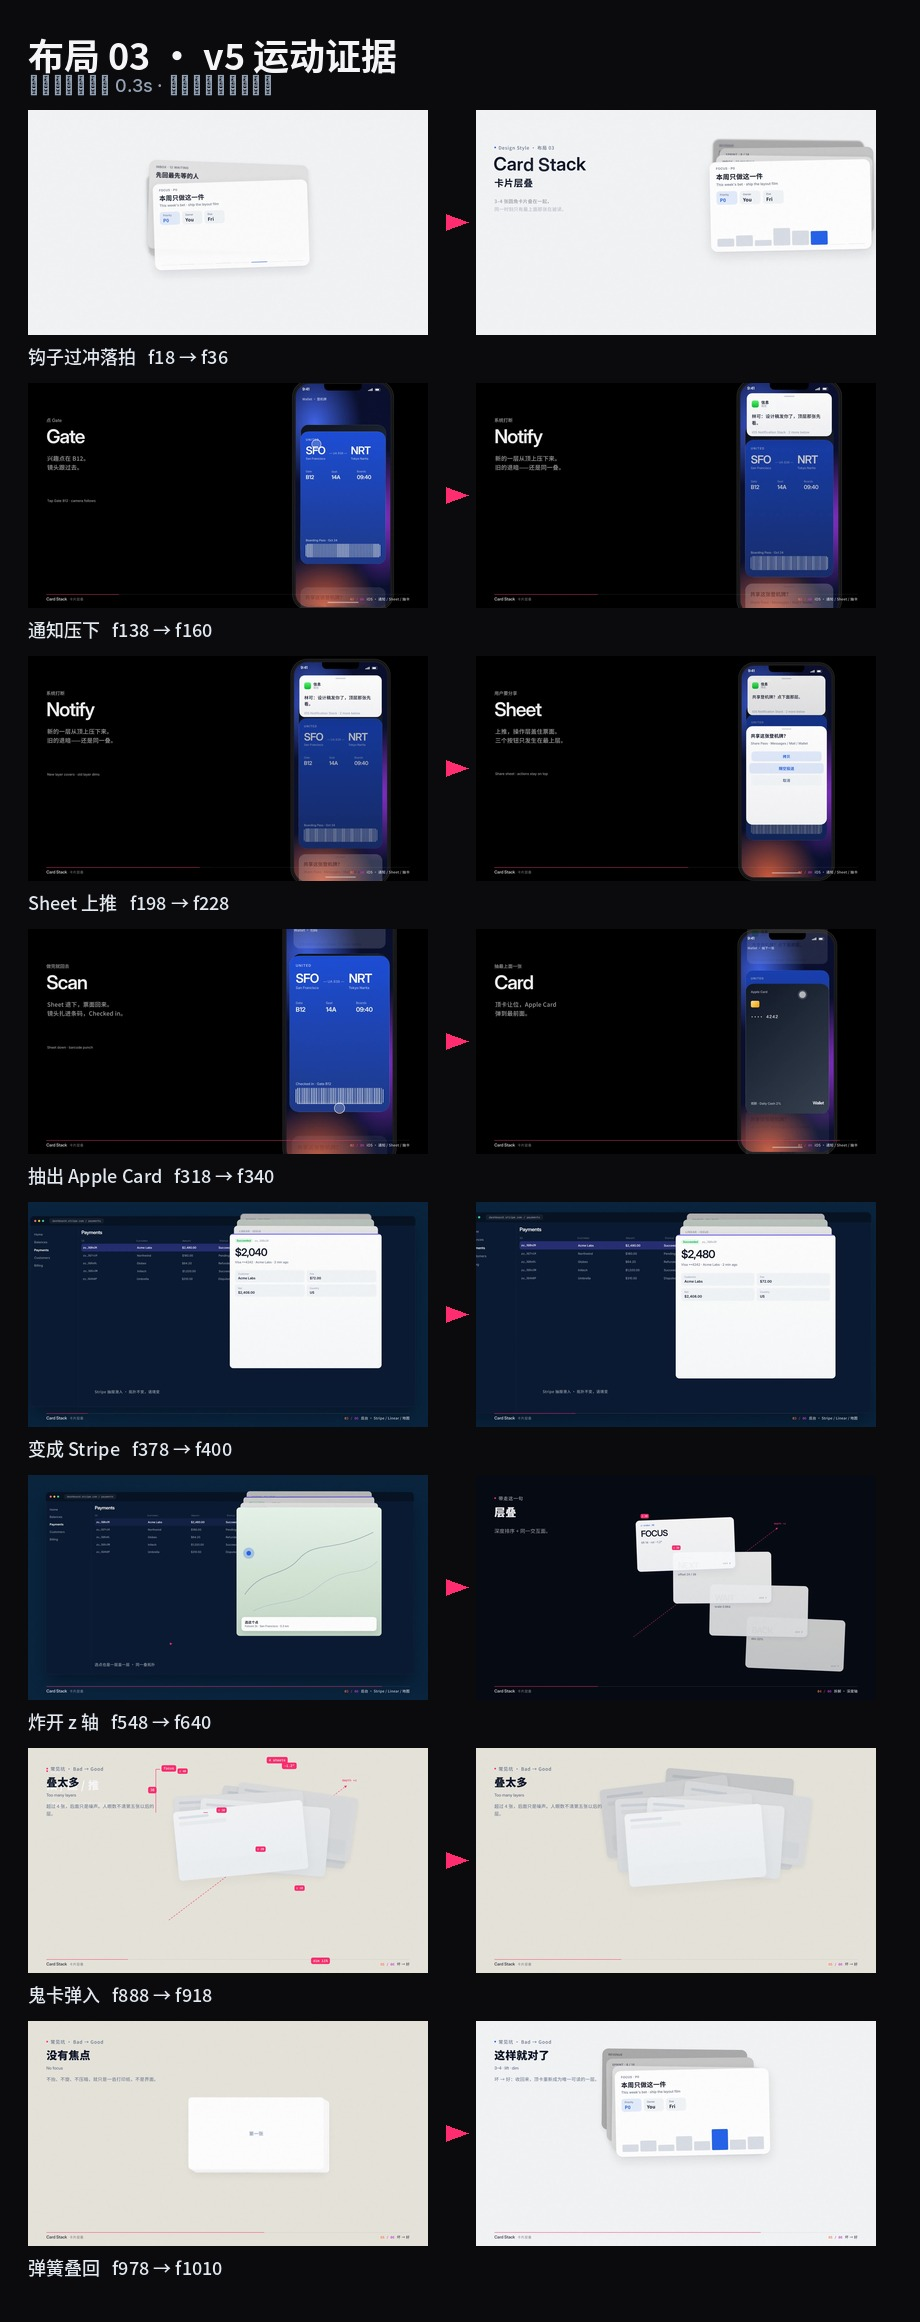
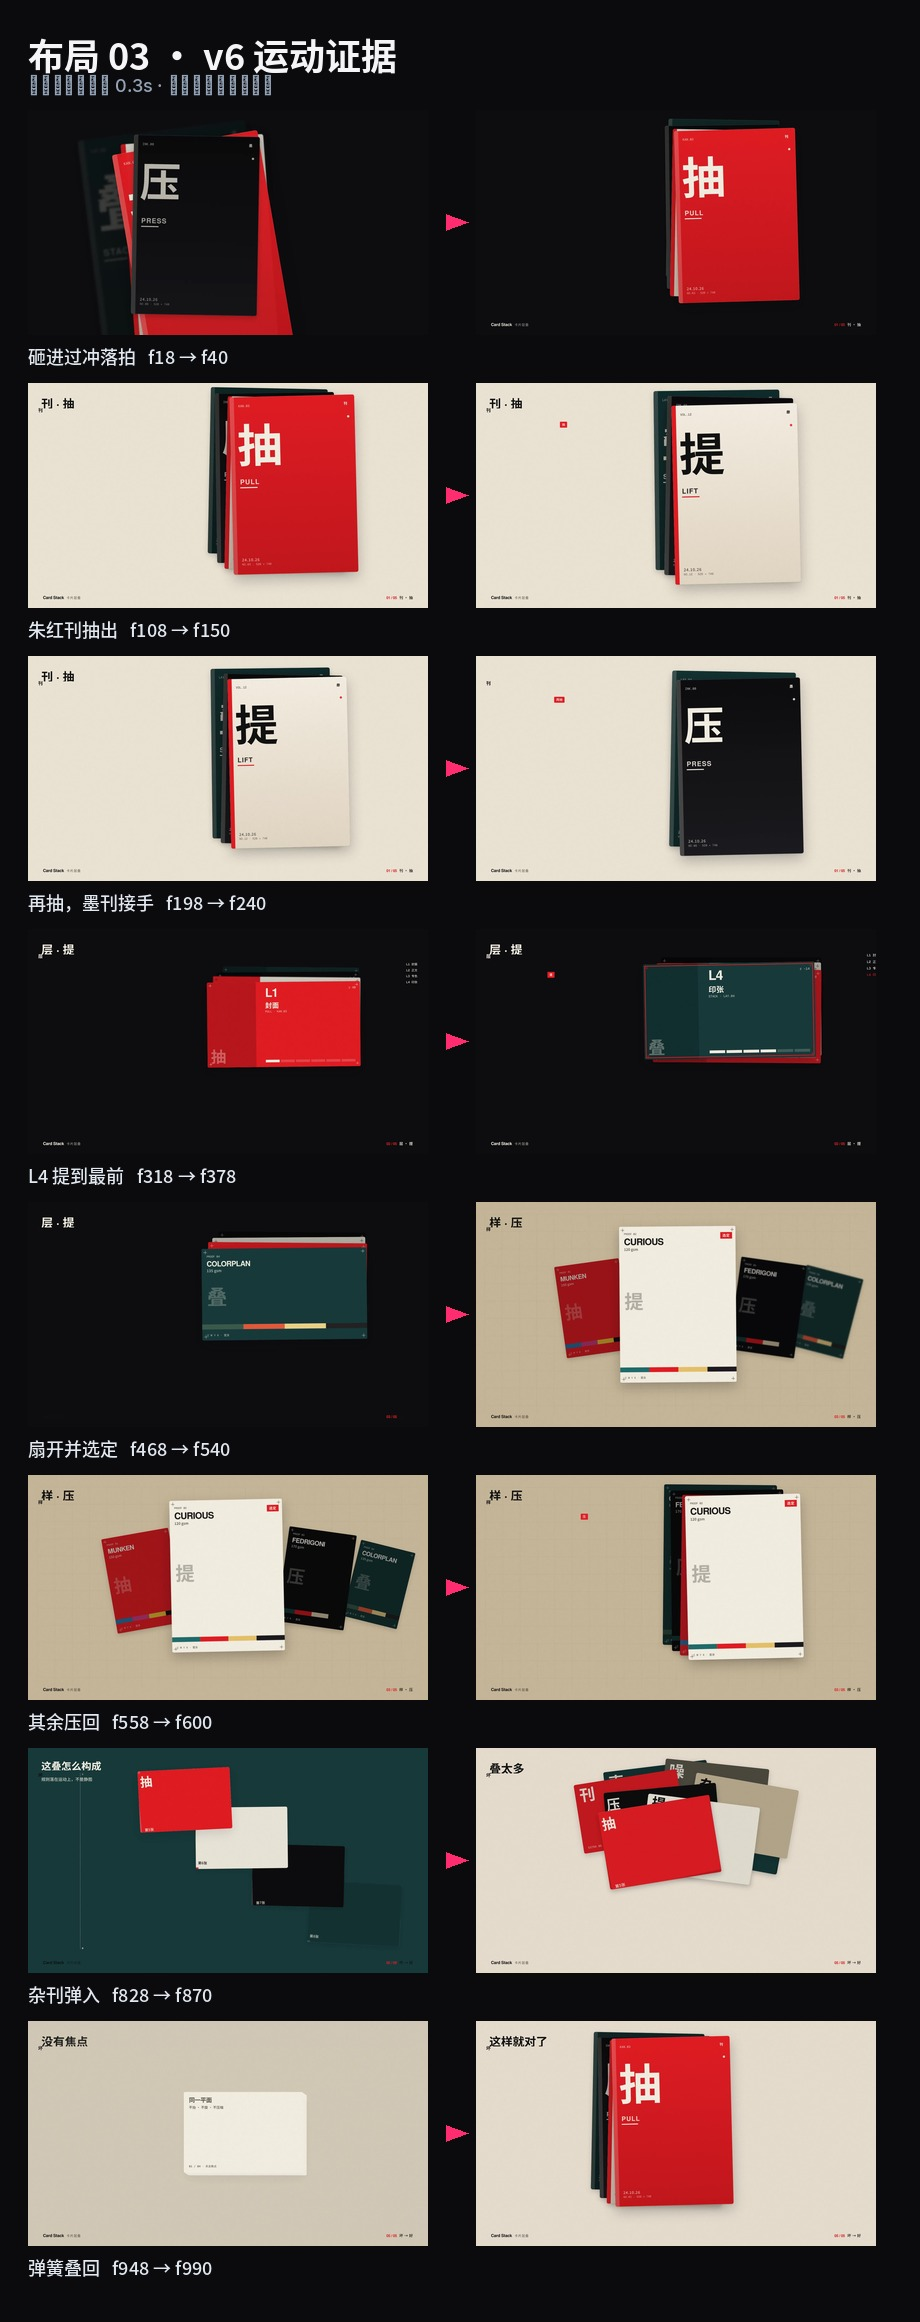
布局 03：坏例字幕落在运动上，更新封面与过程图

diff --git a/layouts/03-card-stack/video/stage.tsx b/layouts/03-card-stack/video/stage.tsx
@@ -45,7 +45,7 @@ export const Hud: React.FC<{f: number}> = ({f}) => {
 export const Rail: React.FC<{f: number}> = ({f}) => {
   const o = tween(f, 48, 12) * (1 - tween(f, SCENE.END.in, 18));
   if (o <= 0.001) return null;
-  const word = f >= SCENE.PROOF.in ? '样' : f >= SCENE.LAYER.in ? '层' : f >= SCENE.COVER.in ? '刊' : '叠';
+  const word = f >= SCENE.END.in ? '叠' : f >= SCENE.PIT.in ? '坏' : f >= SCENE.TEACH.in ? '则' : f >= SCENE.PROOF.in ? '样' : f >= SCENE.LAYER.in ? '层' : f >= SCENE.COVER.in ? '刊' : '叠';
   return (
     <div style={{position: 'absolute', left: 48, top: 120, opacity: o, color: inkOn(f), writingMode: 'vertical-rl', ...gro(22, 700, 0.18)}}>
       {word}
@@ -123,23 +123,17 @@ export const TeachCaption: React.FC<{f: number}> = ({f}) => (
 );
 
 export const PitCaption: React.FC<{f: number}> = ({f}) => (
-  <Show f={f} at={BEATS.noise - 18} out={BEATS.end - 8} style={{left: 64, top: 72, color: C.ink}}>
-    <Swap
-      f={f}
-      at={BEATS.flat}
-      h={56}
-      a={<span style={{...gro(48, 700, -0.04)}}>叠太多</span>}
-      b={
-        <Swap
-          f={f}
-          at={BEATS.fix}
-          h={56}
-          a={<span style={{...gro(48, 700, -0.04)}}>没有焦点</span>}
-          b={<span style={{...gro(48, 700, -0.04)}}>这样就对了</span>}
-        />
-      }
-    />
-  </Show>
+  <>
+    <Show f={f} at={BEATS.noise - 18} out={BEATS.flat - 2} style={{left: 64, top: 72, color: C.ink}}>
+      <Rise f={f} at={BEATS.noise - 12} out={BEATS.flat - 2} text="叠太多" style={{...gro(56, 700, -0.05)}} />
+    </Show>
+    <Show f={f} at={BEATS.flat - 4} out={946} style={{left: 64, top: 72, color: C.ink}}>
+      <Rise f={f} at={BEATS.flat} out={946} text="没有焦点" style={{...gro(56, 700, -0.05)}} />
+    </Show>
+    <Show f={f} at={946} out={BEATS.end - 8} style={{left: 64, top: 72, color: C.ink}}>
+      <Rise f={f} at={948} out={BEATS.end - 8} text="这样就对了" style={{...gro(56, 700, -0.05)}} />
+    </Show>
+  </>
 );
 
 export const EndTitle: React.FC<{f: number}> = ({f}) => {
